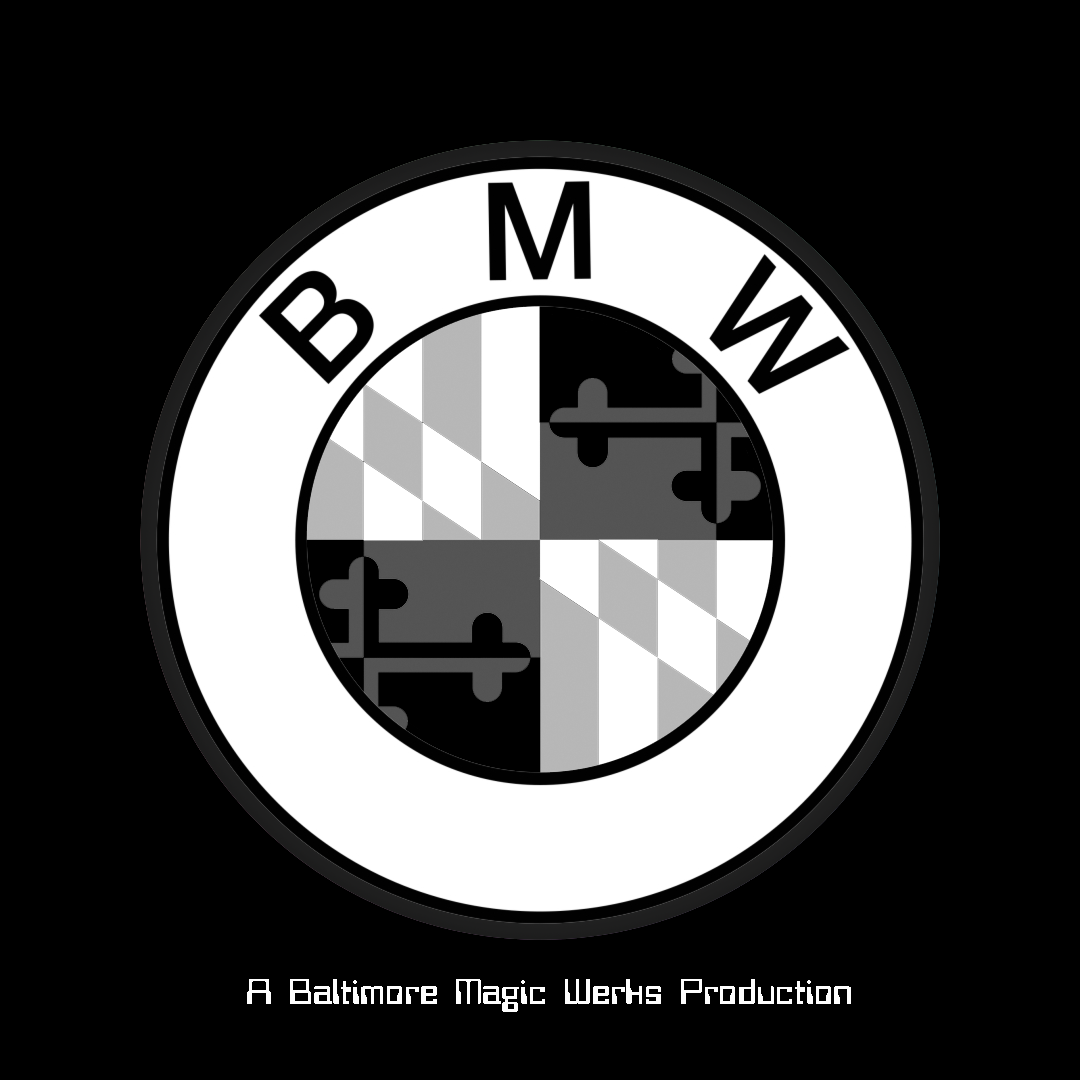
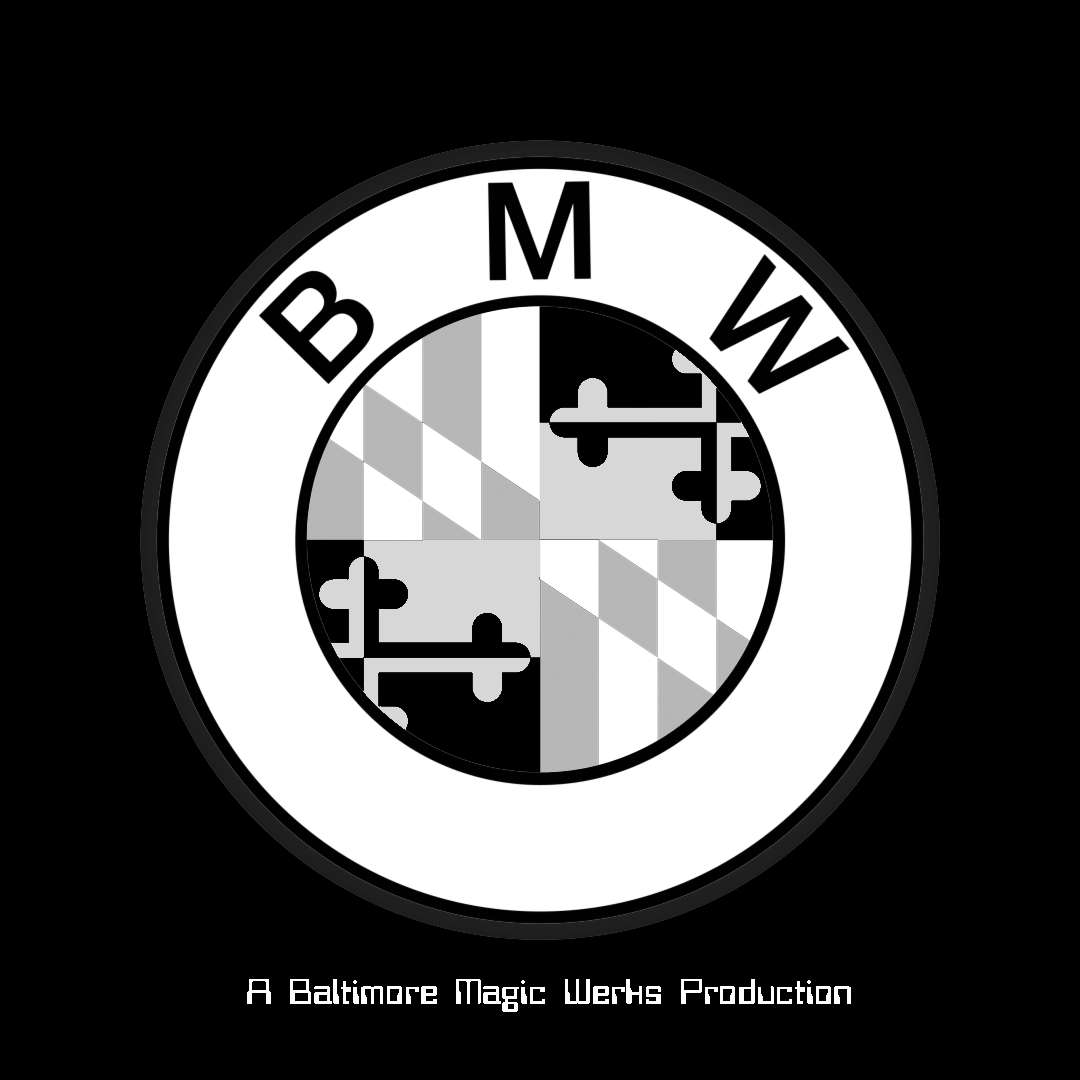
Adding specular and normal map textures for splash screens

Changed region(s): [[0.275, 0.3056, 0.7028, 0.6722]]

diff --git a/HoverTank1989/Game.cpp b/HoverTank1989/Game.cpp
@@ -1678,29 +1678,6 @@ void Game::CreateDeviceDependentResources()
     DX::ThrowIfFailed(CreateWICTextureFromFile(device, L"../HoverTank1989/Art/SpecularMaps/JIspecText.png", nullptr, m_specularJI.ReleaseAndGetAddressOf()));
 
     //DX::ThrowIfFailed(CreateWICTextureFromFile(device, L"../HoverTank1989/Art/SpecularMaps/JIspecTextBlack.png", nullptr, m_specularJI.ReleaseAndGetAddressOf()));
-
-    /*
-    DX::ThrowIfFailed(CreateWICTextureFromFile(device, L"../HoverTank1989/Art/Textures/textBMW0.png", nullptr, m_textureJI0.ReleaseAndGetAddressOf()));
-    DX::ThrowIfFailed(CreateWICTextureFromFile(device, L"../HoverTank1989/Art/NormalMaps/blankNormal.jpg", nullptr, m_normalMapJI0.ReleaseAndGetAddressOf()));
-    DX::ThrowIfFailed(CreateWICTextureFromFile(device, L"../HoverTank1989/Art/SpecularMaps/blankSpecular.jpg", nullptr, m_specularJI0.ReleaseAndGetAddressOf()));
-
-    DX::ThrowIfFailed(CreateWICTextureFromFile(device, L"../HoverTank1989/Art/Textures/textBMW0.png", nullptr, m_textureJI1.ReleaseAndGetAddressOf()));
-    DX::ThrowIfFailed(CreateWICTextureFromFile(device, L"../HoverTank1989/Art/NormalMaps/blankNormal.jpg", nullptr, m_normalMapJI1.ReleaseAndGetAddressOf()));
-    DX::ThrowIfFailed(CreateWICTextureFromFile(device, L"../HoverTank1989/Art/SpecularMaps/blankSpecular.jpg", nullptr, m_specularJI1.ReleaseAndGetAddressOf()));
-
-    DX::ThrowIfFailed(CreateWICTextureFromFile(device, L"../HoverTank1989/Art/Textures/textBMW0.png", nullptr, m_textureJI2.ReleaseAndGetAddressOf()));
-    DX::ThrowIfFailed(CreateWICTextureFromFile(device, L"../HoverTank1989/Art/NormalMaps/blankNormal.jpg", nullptr, m_normalMapJI2.ReleaseAndGetAddressOf()));
-    DX::ThrowIfFailed(CreateWICTextureFromFile(device, L"../HoverTank1989/Art/SpecularMaps/blankSpecular.jpg", nullptr, m_specularJI2.ReleaseAndGetAddressOf()));
-
-    DX::ThrowIfFailed(CreateWICTextureFromFile(device, L"../HoverTank1989/Art/Textures/textBMW0.png", nullptr, m_textureJI3.ReleaseAndGetAddressOf()));
-    DX::ThrowIfFailed(CreateWICTextureFromFile(device, L"../HoverTank1989/Art/NormalMaps/blankNormal.jpg", nullptr, m_normalMapJI3.ReleaseAndGetAddressOf()));
-    DX::ThrowIfFailed(CreateWICTextureFromFile(device, L"../HoverTank1989/Art/SpecularMaps/blankSpecular.jpg", nullptr, m_specularJI3.ReleaseAndGetAddressOf()));
-
-    DX::ThrowIfFailed(CreateWICTextureFromFile(device, L"../HoverTank1989/Art/Textures/textBMW0.png", nullptr, m_textureJI4.ReleaseAndGetAddressOf()));
-    DX::ThrowIfFailed(CreateWICTextureFromFile(device, L"../HoverTank1989/Art/NormalMaps/blankNormal.jpg", nullptr, m_normalMapJI4.ReleaseAndGetAddressOf()));
-    DX::ThrowIfFailed(CreateWICTextureFromFile(device, L"../HoverTank1989/Art/SpecularMaps/blankSpecular.jpg", nullptr, m_specularJI4.ReleaseAndGetAddressOf()));
-    */
-
     
     DX::ThrowIfFailed(CreateWICTextureFromFile(device, L"../HoverTank1989/Art/Textures/JIscratchLogoTexture0.png", nullptr, m_textureJI0.ReleaseAndGetAddressOf()));
     DX::ThrowIfFailed(CreateWICTextureFromFile(device, L"../HoverTank1989/Art/NormalMaps/JIscratchLogoNorm0.png", nullptr, m_normalMapJI0.ReleaseAndGetAddressOf()));
@@ -1722,26 +1699,12 @@ void Game::CreateDeviceDependentResources()
     DX::ThrowIfFailed(CreateWICTextureFromFile(device, L"../HoverTank1989/Art/NormalMaps/JIscratchLogoNorm4.png", nullptr, m_normalMapJI4.ReleaseAndGetAddressOf()));
     DX::ThrowIfFailed(CreateWICTextureFromFile(device, L"../HoverTank1989/Art/SpecularMaps/JIscratchLogoSpec4.png", nullptr, m_specularJI4.ReleaseAndGetAddressOf()));
     
-
-
-
-    // BMW textures
-    //DX::ThrowIfFailed(CreateWICTextureFromFile(device, L"../HoverTank1989/Art/Textures/logoBMW.png", nullptr, m_textureBMW.ReleaseAndGetAddressOf()));
-    //DX::ThrowIfFailed(CreateWICTextureFromFile(device, L"../HoverTank1989/Art/NormalMaps/normBMW2.png", nullptr, m_normalMapBMW.ReleaseAndGetAddressOf()));
-    //DX::ThrowIfFailed(CreateWICTextureFromFile(device, L"../HoverTank1989/Art/NormalMaps/normBMW2.png", nullptr, m_normalMapBMW2.ReleaseAndGetAddressOf()));
-    //DX::ThrowIfFailed(CreateWICTextureFromFile(device, L"../HoverTank1989/Art/SpecularMaps/specularBMW.png", nullptr, m_specularBMW.ReleaseAndGetAddressOf()));
-
-    
+    // BMW texture
     DX::ThrowIfFailed(CreateWICTextureFromFile(device, L"../HoverTank1989/Art/Textures/textBMW0.png", nullptr, m_textureBMW.ReleaseAndGetAddressOf()));
     DX::ThrowIfFailed(CreateWICTextureFromFile(device, L"../HoverTank1989/Art/NormalMaps/normBMW1.png", nullptr, m_normalMapBMW.ReleaseAndGetAddressOf()));
     DX::ThrowIfFailed(CreateWICTextureFromFile(device, L"../HoverTank1989/Art/NormalMaps/normBMW0.png", nullptr, m_normalMapBMW2.ReleaseAndGetAddressOf()));
     DX::ThrowIfFailed(CreateWICTextureFromFile(device, L"../HoverTank1989/Art/SpecularMaps/specBMW0.png", nullptr, m_specularBMW.ReleaseAndGetAddressOf()));
     
-    //DX::ThrowIfFailed(CreateWICTextureFromFile(device, L"../HoverTank1989/Art/Textures/textBMW0.png", nullptr, m_textureBMW.ReleaseAndGetAddressOf()));
-    //DX::ThrowIfFailed(CreateWICTextureFromFile(device, L"../HoverTank1989/Art/NormalMaps/blankNormal.jpg", nullptr, m_normalMapBMW.ReleaseAndGetAddressOf()));
-    //DX::ThrowIfFailed(CreateWICTextureFromFile(device, L"../HoverTank1989/Art/NormalMaps/blankNormal.jpg", nullptr, m_normalMapBMW2.ReleaseAndGetAddressOf()));
-    //DX::ThrowIfFailed(CreateWICTextureFromFile(device, L"../HoverTank1989/Art/SpecularMaps/blankSpecular.jpg", nullptr, m_specularBMW.ReleaseAndGetAddressOf()));
-
     // Start screen textures
     DX::ThrowIfFailed(CreateWICTextureFromFile(device, L"../HoverTank1989/Art/Textures/textureUV.png", nullptr, m_textureAutoGame.ReleaseAndGetAddressOf()));
     DX::ThrowIfFailed(CreateWICTextureFromFile(device, L"../HoverTank1989/Art/NormalMaps/normalUV.png", nullptr, m_normalMapAutoGame.ReleaseAndGetAddressOf()));
@@ -1749,19 +1712,47 @@ void Game::CreateDeviceDependentResources()
 
     // updated start screen
     DX::ThrowIfFailed(CreateWICTextureFromFile(device, L"../HoverTank1989/Art/Textures/textStartScreen.png", nullptr, m_textureStartScreen.ReleaseAndGetAddressOf()));
-    DX::ThrowIfFailed(CreateWICTextureFromFile(device, L"../HoverTank1989/Art/NormalMaps/blankNormal.jpg", nullptr, m_normalStartScreen.ReleaseAndGetAddressOf()));
-    DX::ThrowIfFailed(CreateWICTextureFromFile(device, L"../HoverTank1989/Art/SpecularMaps/blankSpecular.jpg", nullptr, m_specularStartScreen.ReleaseAndGetAddressOf()));
+    //DX::ThrowIfFailed(CreateWICTextureFromFile(device, L"../HoverTank1989/Art/NormalMaps/normStartScreen.png", nullptr, m_normalStartScreen.ReleaseAndGetAddressOf()));
+    DX::ThrowIfFailed(CreateWICTextureFromFile(device, L"../HoverTank1989/Art/NormalMaps/NormalMap(52).png", nullptr, m_normalStartScreen.ReleaseAndGetAddressOf()));
+    DX::ThrowIfFailed(CreateWICTextureFromFile(device, L"../HoverTank1989/Art/SpecularMaps/specularStartScreen.png", nullptr, m_specularStartScreen.ReleaseAndGetAddressOf()));
 
     // Blueprint screen
     DX::ThrowIfFailed(CreateWICTextureFromFile(device, L"../HoverTank1989/Art/Textures/textureBluePrint.png", nullptr, m_textureBluePrint.ReleaseAndGetAddressOf()));
-    DX::ThrowIfFailed(CreateWICTextureFromFile(device, L"../HoverTank1989/Art/NormalMaps/blankNormal.jpg", nullptr, m_normalMapBluePrint.ReleaseAndGetAddressOf()));
-    DX::ThrowIfFailed(CreateWICTextureFromFile(device, L"../HoverTank1989/Art/SpecularMaps/blankSpecular.jpg", nullptr, m_specularBluePrint.ReleaseAndGetAddressOf()));
+    DX::ThrowIfFailed(CreateWICTextureFromFile(device, L"../HoverTank1989/Art/NormalMaps/normBlueprint.png", nullptr, m_normalMapBluePrint.ReleaseAndGetAddressOf()));
+    //DX::ThrowIfFailed(CreateWICTextureFromFile(device, L"../HoverTank1989/Art/NormalMaps/blankNormal.jpg", nullptr, m_normalMapBluePrint.ReleaseAndGetAddressOf()));
+    //DX::ThrowIfFailed(CreateWICTextureFromFile(device, L"../HoverTank1989/Art/NormalMaps/NormalMap(55).png", nullptr, m_normalMapBluePrint.ReleaseAndGetAddressOf()));
+    //DX::ThrowIfFailed(CreateWICTextureFromFile(device, L"../HoverTank1989/Art/NormalMaps/metalScarredNormal.jpg", nullptr, m_normalMapBluePrint.ReleaseAndGetAddressOf()));
+    DX::ThrowIfFailed(CreateWICTextureFromFile(device, L"../HoverTank1989/Art/SpecularMaps/specularBlueprint.png", nullptr, m_specularBluePrint.ReleaseAndGetAddressOf()));
 
     // Top attack
     DX::ThrowIfFailed(CreateWICTextureFromFile(device, L"../HoverTank1989/Art/Textures/textureTopAttack.png", nullptr, m_textureTopAttack.ReleaseAndGetAddressOf()));
-    DX::ThrowIfFailed(CreateWICTextureFromFile(device, L"../HoverTank1989/Art/NormalMaps/blankNormal.jpg", nullptr, m_normalMapTopAttack.ReleaseAndGetAddressOf()));
+    //DX::ThrowIfFailed(CreateWICTextureFromFile(device, L"../HoverTank1989/Art/NormalMaps/blankNormal.jpg", nullptr, m_normalMapTopAttack.ReleaseAndGetAddressOf()));
+    //DX::ThrowIfFailed(CreateWICTextureFromFile(device, L"../HoverTank1989/Art/NormalMaps/normalTopAttack.png", nullptr, m_normalMapTopAttack.ReleaseAndGetAddressOf()));
+    DX::ThrowIfFailed(CreateWICTextureFromFile(device, L"../HoverTank1989/Art/NormalMaps/NormalMap(59).png", nullptr, m_normalMapTopAttack.ReleaseAndGetAddressOf()));
     DX::ThrowIfFailed(CreateWICTextureFromFile(device, L"../HoverTank1989/Art/SpecularMaps/blankSpecular.jpg", nullptr, m_specularTopAttack.ReleaseAndGetAddressOf()));
     // Top attack flipbook
+    DX::ThrowIfFailed(CreateWICTextureFromFile(device, L"../HoverTank1989/Art/NormalMaps/normTopAttack0.png", nullptr, m_normalMapTopAttack0.ReleaseAndGetAddressOf()));
+    DX::ThrowIfFailed(CreateWICTextureFromFile(device, L"../HoverTank1989/Art/NormalMaps/normTopAttack1.png", nullptr, m_normalMapTopAttack1.ReleaseAndGetAddressOf()));
+    DX::ThrowIfFailed(CreateWICTextureFromFile(device, L"../HoverTank1989/Art/NormalMaps/normTopAttack2.png", nullptr, m_normalMapTopAttack2.ReleaseAndGetAddressOf()));
+    DX::ThrowIfFailed(CreateWICTextureFromFile(device, L"../HoverTank1989/Art/NormalMaps/normTopAttack3.png", nullptr, m_normalMapTopAttack3.ReleaseAndGetAddressOf()));
+    DX::ThrowIfFailed(CreateWICTextureFromFile(device, L"../HoverTank1989/Art/NormalMaps/normTopAttack4.png", nullptr, m_normalMapTopAttack4.ReleaseAndGetAddressOf()));
+    DX::ThrowIfFailed(CreateWICTextureFromFile(device, L"../HoverTank1989/Art/NormalMaps/normTopAttack5.png", nullptr, m_normalMapTopAttack5.ReleaseAndGetAddressOf()));
+    DX::ThrowIfFailed(CreateWICTextureFromFile(device, L"../HoverTank1989/Art/NormalMaps/normTopAttack6.png", nullptr, m_normalMapTopAttack6.ReleaseAndGetAddressOf()));
+    DX::ThrowIfFailed(CreateWICTextureFromFile(device, L"../HoverTank1989/Art/NormalMaps/normTopAttack7.png", nullptr, m_normalMapTopAttack7.ReleaseAndGetAddressOf()));
+    DX::ThrowIfFailed(CreateWICTextureFromFile(device, L"../HoverTank1989/Art/NormalMaps/normTopAttack8.png", nullptr, m_normalMapTopAttack8.ReleaseAndGetAddressOf()));
+    DX::ThrowIfFailed(CreateWICTextureFromFile(device, L"../HoverTank1989/Art/NormalMaps/normTopAttack9.png", nullptr, m_normalMapTopAttack9.ReleaseAndGetAddressOf()));
+
+    DX::ThrowIfFailed(CreateWICTextureFromFile(device, L"../HoverTank1989/Art/SpecularMaps/specularTopAttack0.png", nullptr, m_specularTopAttack0.ReleaseAndGetAddressOf()));
+    DX::ThrowIfFailed(CreateWICTextureFromFile(device, L"../HoverTank1989/Art/SpecularMaps/specularTopAttack1.png", nullptr, m_specularTopAttack1.ReleaseAndGetAddressOf()));
+    DX::ThrowIfFailed(CreateWICTextureFromFile(device, L"../HoverTank1989/Art/SpecularMaps/specularTopAttack2.png", nullptr, m_specularTopAttack2.ReleaseAndGetAddressOf()));
+    DX::ThrowIfFailed(CreateWICTextureFromFile(device, L"../HoverTank1989/Art/SpecularMaps/specularTopAttack3.png", nullptr, m_specularTopAttack3.ReleaseAndGetAddressOf()));
+    DX::ThrowIfFailed(CreateWICTextureFromFile(device, L"../HoverTank1989/Art/SpecularMaps/specularTopAttack4alt.png", nullptr, m_specularTopAttack4.ReleaseAndGetAddressOf()));
+    DX::ThrowIfFailed(CreateWICTextureFromFile(device, L"../HoverTank1989/Art/SpecularMaps/specularTopAttack5alt.png", nullptr, m_specularTopAttack5.ReleaseAndGetAddressOf()));
+    DX::ThrowIfFailed(CreateWICTextureFromFile(device, L"../HoverTank1989/Art/SpecularMaps/specularTopAttack6alt.png", nullptr, m_specularTopAttack6.ReleaseAndGetAddressOf()));
+    DX::ThrowIfFailed(CreateWICTextureFromFile(device, L"../HoverTank1989/Art/SpecularMaps/specularTopAttack7alt.png", nullptr, m_specularTopAttack7.ReleaseAndGetAddressOf()));
+    DX::ThrowIfFailed(CreateWICTextureFromFile(device, L"../HoverTank1989/Art/SpecularMaps/specularTopAttack8alt.png", nullptr, m_specularTopAttack8.ReleaseAndGetAddressOf()));
+    DX::ThrowIfFailed(CreateWICTextureFromFile(device, L"../HoverTank1989/Art/SpecularMaps/specularTopAttack9alt.png", nullptr, m_specularTopAttack9.ReleaseAndGetAddressOf()));
+
     DX::ThrowIfFailed(CreateWICTextureFromFile(device, L"../HoverTank1989/Art/Textures/textTopAttack0.png", nullptr, m_textureTopAttack0.ReleaseAndGetAddressOf()));
     DX::ThrowIfFailed(CreateWICTextureFromFile(device, L"../HoverTank1989/Art/Textures/textTopAttack1.png", nullptr, m_textureTopAttack1.ReleaseAndGetAddressOf()));
     DX::ThrowIfFailed(CreateWICTextureFromFile(device, L"../HoverTank1989/Art/Textures/textTopAttack2.png", nullptr, m_textureTopAttack2.ReleaseAndGetAddressOf()));
@@ -1769,7 +1760,9 @@ void Game::CreateDeviceDependentResources()
     DX::ThrowIfFailed(CreateWICTextureFromFile(device, L"../HoverTank1989/Art/Textures/textTopAttack4.png", nullptr, m_textureTopAttack4.ReleaseAndGetAddressOf()));
     DX::ThrowIfFailed(CreateWICTextureFromFile(device, L"../HoverTank1989/Art/Textures/textTopAttack5.png", nullptr, m_textureTopAttack5.ReleaseAndGetAddressOf()));
     DX::ThrowIfFailed(CreateWICTextureFromFile(device, L"../HoverTank1989/Art/Textures/textTopAttack6.png", nullptr, m_textureTopAttack6.ReleaseAndGetAddressOf()));
-
+    DX::ThrowIfFailed(CreateWICTextureFromFile(device, L"../HoverTank1989/Art/Textures/textTopAttack7.png", nullptr, m_textureTopAttack7.ReleaseAndGetAddressOf()));
+    DX::ThrowIfFailed(CreateWICTextureFromFile(device, L"../HoverTank1989/Art/Textures/textTopAttack8.png", nullptr, m_textureTopAttack8.ReleaseAndGetAddressOf()));
+    DX::ThrowIfFailed(CreateWICTextureFromFile(device, L"../HoverTank1989/Art/Textures/textTopAttack9.png", nullptr, m_textureTopAttack9.ReleaseAndGetAddressOf()));
 
     // Textures for teaser trailer    
     DX::ThrowIfFailed(CreateWICTextureFromFile(device, L"../HoverTank1989/Art/Textures/LogoTeaser.png", nullptr, m_textureTeaser.ReleaseAndGetAddressOf()));
@@ -1804,7 +1797,6 @@ void Game::CreateDeviceDependentResources()
     m_effect->SetLightDirection(0, -DirectX::SimpleMath::Vector3::UnitY);
     m_effect->SetLightDirection(1, -DirectX::SimpleMath::Vector3::UnitY);
     m_effect->SetLightDirection(2, -DirectX::SimpleMath::Vector3::UnitY);
-    m_effect->SetAmbientLightColor(Colors::Blue);
 
     //m_effect->SetVertexColorEnabled(true);
 
@@ -4623,7 +4615,7 @@ void Game::DrawIntroScene()
     const float logoDisplayDuration = m_logoDisplayDuration;
     const float logoDisplayGap = m_logoDisplayGap;
     const float startDelay = m_startDelay;
-
+    const float topAttackDelay = m_logoDisplayTopAttackAddOnTime;
     const float fogGap1 = m_fogGap1;
     const float fogGap2 = m_fogGap2;
 
@@ -4648,16 +4640,18 @@ void Game::DrawIntroScene()
     const float fadeOutStart2 = startDelay + logoDisplayDuration + logoDisplayGap + logoDisplayDuration - fadeDuration;
     const float fadeOutStart3 = startDelay + logoDisplayDuration + logoDisplayGap + logoDisplayDuration + logoDisplayGap + logoDisplayDuration - fadeDuration + m_startScreenTimerMod;
     const float fadeOutStart4 = startDelay + logoDisplayDuration + logoDisplayGap + logoDisplayDuration + logoDisplayGap + logoDisplayDuration - fadeDuration + m_startScreenTimerMod + logoDisplayGap + logoDisplayDuration + fadeDuration;
-    const float fadeOutStart5 = startDelay + logoDisplayDuration + logoDisplayGap + logoDisplayDuration + logoDisplayGap + logoDisplayDuration - fadeDuration + m_startScreenTimerMod + logoDisplayGap + logoDisplayDuration + fadeDuration + logoDisplayGap + logoDisplayDuration + fadeDuration;
-    const float fadeOutStart6 = startDelay + logoDisplayDuration + logoDisplayGap + logoDisplayDuration + logoDisplayGap + logoDisplayDuration - fadeDuration + m_startScreenTimerMod + logoDisplayGap + logoDisplayDuration + fadeDuration + logoDisplayGap + logoDisplayDuration + fadeDuration + logoDisplayGap + logoDisplayDuration + fadeDuration;
+    const float fadeOutStart5 = startDelay + logoDisplayDuration + logoDisplayGap + logoDisplayDuration + logoDisplayGap + logoDisplayDuration - fadeDuration + m_startScreenTimerMod + logoDisplayGap + logoDisplayDuration + fadeDuration + logoDisplayGap + logoDisplayDuration + fadeDuration + topAttackDelay;
+    //const float fadeOutStart6 = startDelay + logoDisplayDuration + logoDisplayGap + logoDisplayDuration + logoDisplayGap + logoDisplayDuration - fadeDuration + m_startScreenTimerMod + logoDisplayGap + logoDisplayDuration + fadeDuration + logoDisplayGap + logoDisplayDuration + fadeDuration + logoDisplayGap + logoDisplayDuration + fadeDuration;
+    const float fadeOutStart6 = startDelay + logoDisplayDuration + logoDisplayGap + logoDisplayDuration + logoDisplayGap + logoDisplayDuration - fadeDuration + m_startScreenTimerMod + logoDisplayGap + logoDisplayDuration + fadeDuration + logoDisplayGap + logoDisplayDuration + fadeDuration + logoDisplayGap + logoDisplayDuration + fadeDuration + topAttackDelay;
 
     const float fadeOutEnd1 = startDelay + logoDisplayDuration;
     const float fadeOutEnd2 = startDelay + logoDisplayDuration + logoDisplayGap + logoDisplayDuration;
     //const float fadeOutEnd3 = fadeOutStart3 + 2.0f;
     const float fadeOutEnd3 = startDelay + logoDisplayDuration + logoDisplayGap + logoDisplayDuration + logoDisplayGap + logoDisplayDuration;
     const float fadeOutEnd4 = startDelay + logoDisplayDuration + logoDisplayGap + logoDisplayDuration + logoDisplayGap + logoDisplayDuration + logoDisplayGap + logoDisplayDuration;
-    const float fadeOutEnd5 = startDelay + logoDisplayDuration + logoDisplayGap + logoDisplayDuration + logoDisplayGap + logoDisplayDuration + logoDisplayGap + logoDisplayDuration + logoDisplayGap + logoDisplayDuration;
-    const float fadeOutEnd6 = startDelay + logoDisplayDuration + logoDisplayGap + logoDisplayDuration + logoDisplayGap + logoDisplayDuration + logoDisplayGap + logoDisplayDuration + logoDisplayGap + logoDisplayDuration + logoDisplayGap + logoDisplayDuration;
+    const float fadeOutEnd5 = startDelay + logoDisplayDuration + logoDisplayGap + logoDisplayDuration + logoDisplayGap + logoDisplayDuration + logoDisplayGap + logoDisplayDuration + logoDisplayGap + logoDisplayDuration + topAttackDelay;
+    //const float fadeOutEnd6 = startDelay + logoDisplayDuration + logoDisplayGap + logoDisplayDuration + logoDisplayGap + logoDisplayDuration + logoDisplayGap + logoDisplayDuration + logoDisplayGap + logoDisplayDuration + logoDisplayGap + logoDisplayDuration;
+    const float fadeOutEnd6 = startDelay + logoDisplayDuration + logoDisplayGap + logoDisplayDuration + logoDisplayGap + logoDisplayDuration + logoDisplayGap + logoDisplayDuration + logoDisplayGap + logoDisplayDuration + logoDisplayGap + logoDisplayDuration + topAttackDelay;
 
     //const float fadeInStart4 = fadeOutEnd3 + 0.05f;
     //const float fadeInEnd4 = fadeInStart4 + 0.1f;
@@ -5165,16 +5159,6 @@ void Game::DrawIntroScene()
         m_camera->SetPos(m_gamePlayStartCamPos1);
         m_camera->SetTargetPos(m_gamePlayStartCamTarg1);
     }
-
-
-    /*
-    else
-    {
-        m_currentGameState = GameState::GAMESTATE_GAMEPLAYSTART;
-        m_camera->SetPos(m_gamePlayStartCamPos1);
-        m_camera->SetTargetPos(m_gamePlayStartCamTarg1);
-    }
-    */ 
     else if (timeStamp < fadeOutEnd6)  // Render GamePlay Start Screen
     {
         if (timeStamp < fadeInEnd6)  // fade in
@@ -5211,11 +5195,6 @@ void Game::DrawIntroScene()
         }
     }
 
-    if (timeStamp > fadeOutEnd4)
-    {
-       // m_currentGameState = GameState::GAMESTATE_GAMEPLAY;
-    }
-    
     // mod for Blueprint logo
     if (timeStamp > fadeInStart4 && timeStamp < fadeOutEnd4)
     {
@@ -5264,36 +5243,73 @@ void Game::DrawIntroScene()
         const float paddingBack = timeGap * 0.04f;
         const float timerLocal = timeStamp - fadeInStart5;
 
-        const float slideCount = 7.0f;
+        const float slideCount = 10.0f;
         const float slideTime = (1.0f / slideCount) * timeGap;
 
         if (timerLocal < (slideTime * 1.0f))
         {
             m_effect->SetTexture(m_textureTopAttack0.Get());
+            m_effect->SetSpecularTexture(m_specularTopAttack0.Get());
+            m_effect->SetNormalTexture(m_normalMapTopAttack0.Get());
         }
         else if (timerLocal < (slideTime * 2.0f))
         {
             m_effect->SetTexture(m_textureTopAttack1.Get());
+            m_effect->SetSpecularTexture(m_specularTopAttack1.Get());
+            m_effect->SetNormalTexture(m_normalMapTopAttack1.Get());
         }
         else if (timerLocal < (slideTime * 3.0f))
         {
             m_effect->SetTexture(m_textureTopAttack2.Get());
+            m_effect->SetSpecularTexture(m_specularTopAttack2.Get());
+            m_effect->SetNormalTexture(m_normalMapTopAttack2.Get());
         }
         else if (timerLocal < (slideTime * 4.0f))
         {
             m_effect->SetTexture(m_textureTopAttack3.Get());
+            m_effect->SetSpecularTexture(m_specularTopAttack3.Get());
+            m_effect->SetNormalTexture(m_normalMapTopAttack3.Get());
         }
         else if (timerLocal < (slideTime * 5.0f))
         {
             m_effect->SetTexture(m_textureTopAttack4.Get());
+            m_effect->SetSpecularTexture(m_specularTopAttack4.Get());
+            m_effect->SetNormalTexture(m_normalMapTopAttack4.Get());
         }
         else if (timerLocal < (slideTime * 6.0f))
         {
             m_effect->SetTexture(m_textureTopAttack5.Get());
+            m_effect->SetSpecularTexture(m_specularTopAttack5.Get());
+            m_effect->SetNormalTexture(m_normalMapTopAttack5.Get());
         }
         else if (timerLocal < (slideTime * 7.0f))
         {
             m_effect->SetTexture(m_textureTopAttack6.Get());
+            m_effect->SetSpecularTexture(m_specularTopAttack6.Get());
+            m_effect->SetNormalTexture(m_normalMapTopAttack6.Get());
+        }
+        else if (timerLocal < (slideTime * 8.0f))
+        {
+            m_effect->SetTexture(m_textureTopAttack7.Get());
+            m_effect->SetSpecularTexture(m_specularTopAttack7.Get());
+            m_effect->SetNormalTexture(m_normalMapTopAttack7.Get());
+        }
+        else if (timerLocal < (slideTime * 9.0f))
+        {
+            m_effect->SetTexture(m_textureTopAttack8.Get());
+            m_effect->SetSpecularTexture(m_specularTopAttack8.Get());
+            m_effect->SetNormalTexture(m_normalMapTopAttack8.Get());
+        }
+        else if (timerLocal < (slideTime * 10.0f))
+        {
+            m_effect->SetTexture(m_textureTopAttack9.Get());
+            m_effect->SetSpecularTexture(m_specularTopAttack9.Get());
+            m_effect->SetNormalTexture(m_normalMapTopAttack9.Get());
+        }
+        else
+        {
+            int testBreak = 0;
+            testBreak++;
         }
     }
 
@@ -6353,6 +6369,28 @@ void Game::OnDeviceLost()
     m_specularTopAttack.Reset();
     m_textureTopAttack.Reset();
 
+    m_normalMapTopAttack0.Reset();
+    m_normalMapTopAttack1.Reset();
+    m_normalMapTopAttack2.Reset();
+    m_normalMapTopAttack3.Reset();
+    m_normalMapTopAttack4.Reset();
+    m_normalMapTopAttack5.Reset();
+    m_normalMapTopAttack6.Reset();
+    m_normalMapTopAttack7.Reset();
+    m_normalMapTopAttack8.Reset();
+    m_normalMapTopAttack9.Reset();
+
+    m_specularTopAttack0.Reset();
+    m_specularTopAttack1.Reset();
+    m_specularTopAttack2.Reset();
+    m_specularTopAttack3.Reset();
+    m_specularTopAttack4.Reset();
+    m_specularTopAttack5.Reset();
+    m_specularTopAttack6.Reset();
+    m_specularTopAttack7.Reset();
+    m_specularTopAttack8.Reset();
+    m_specularTopAttack9.Reset();
+
     m_textureTopAttack0.Reset();
     m_textureTopAttack1.Reset();
     m_textureTopAttack2.Reset();
@@ -6361,6 +6399,8 @@ void Game::OnDeviceLost()
     m_textureTopAttack5.Reset();
     m_textureTopAttack6.Reset();
     m_textureTopAttack7.Reset();
+    m_textureTopAttack8.Reset();
+    m_textureTopAttack9.Reset();
 
     m_normalMapAutoGame.Reset();
     m_specularAutoGame.Reset();

diff --git a/HoverTank1989/Game.h b/HoverTank1989/Game.h
@@ -245,6 +245,28 @@ private:
     Microsoft::WRL::ComPtr<ID3D11ShaderResourceView> m_specularTopAttack;
     Microsoft::WRL::ComPtr<ID3D11ShaderResourceView> m_textureTopAttack;
 
+    Microsoft::WRL::ComPtr<ID3D11ShaderResourceView> m_normalMapTopAttack0;
+    Microsoft::WRL::ComPtr<ID3D11ShaderResourceView> m_normalMapTopAttack1;
+    Microsoft::WRL::ComPtr<ID3D11ShaderResourceView> m_normalMapTopAttack2;
+    Microsoft::WRL::ComPtr<ID3D11ShaderResourceView> m_normalMapTopAttack3;
+    Microsoft::WRL::ComPtr<ID3D11ShaderResourceView> m_normalMapTopAttack4;
+    Microsoft::WRL::ComPtr<ID3D11ShaderResourceView> m_normalMapTopAttack5;
+    Microsoft::WRL::ComPtr<ID3D11ShaderResourceView> m_normalMapTopAttack6;
+    Microsoft::WRL::ComPtr<ID3D11ShaderResourceView> m_normalMapTopAttack7;
+    Microsoft::WRL::ComPtr<ID3D11ShaderResourceView> m_normalMapTopAttack8;
+    Microsoft::WRL::ComPtr<ID3D11ShaderResourceView> m_normalMapTopAttack9;
+
+    Microsoft::WRL::ComPtr<ID3D11ShaderResourceView> m_specularTopAttack0;
+    Microsoft::WRL::ComPtr<ID3D11ShaderResourceView> m_specularTopAttack1;
+    Microsoft::WRL::ComPtr<ID3D11ShaderResourceView> m_specularTopAttack2;
+    Microsoft::WRL::ComPtr<ID3D11ShaderResourceView> m_specularTopAttack3;
+    Microsoft::WRL::ComPtr<ID3D11ShaderResourceView> m_specularTopAttack4;
+    Microsoft::WRL::ComPtr<ID3D11ShaderResourceView> m_specularTopAttack5;
+    Microsoft::WRL::ComPtr<ID3D11ShaderResourceView> m_specularTopAttack6;
+    Microsoft::WRL::ComPtr<ID3D11ShaderResourceView> m_specularTopAttack7;
+    Microsoft::WRL::ComPtr<ID3D11ShaderResourceView> m_specularTopAttack8;
+    Microsoft::WRL::ComPtr<ID3D11ShaderResourceView> m_specularTopAttack9;
+
     Microsoft::WRL::ComPtr<ID3D11ShaderResourceView> m_textureTopAttack0;
     Microsoft::WRL::ComPtr<ID3D11ShaderResourceView> m_textureTopAttack1;
     Microsoft::WRL::ComPtr<ID3D11ShaderResourceView> m_textureTopAttack2;
@@ -253,6 +275,8 @@ private:
     Microsoft::WRL::ComPtr<ID3D11ShaderResourceView> m_textureTopAttack5;
     Microsoft::WRL::ComPtr<ID3D11ShaderResourceView> m_textureTopAttack6;
     Microsoft::WRL::ComPtr<ID3D11ShaderResourceView> m_textureTopAttack7;
+    Microsoft::WRL::ComPtr<ID3D11ShaderResourceView> m_textureTopAttack8;
+    Microsoft::WRL::ComPtr<ID3D11ShaderResourceView> m_textureTopAttack9;
 
     Microsoft::WRL::ComPtr<ID3D11ShaderResourceView> m_normalMapAutoGame;
     Microsoft::WRL::ComPtr<ID3D11ShaderResourceView> m_specularAutoGame;
@@ -650,7 +674,10 @@ private:
     const float m_startTrigger3 = 24.0f + m_startDelay + (m_logoDisplayDuration * 2.0f);
     */
 
-    const float m_startOffset = 70.0f;
+    const float m_logoDisplayTopAttackAddOnTime = 15.0f;
+    const float m_startOffset = 35.0f;
+
+
     const float m_startTrigger0 = 7.0f + m_startDelay + (m_logoDisplayDuration * 3.0f) + m_startOffset;
     const float m_startTrigger00 = 14.5f + m_startDelay + (m_logoDisplayDuration * 3.0f) + m_startOffset;
     const float m_startTrigger1 = 16.0f + m_startDelay + (m_logoDisplayDuration * 3.0f) + m_startOffset;
